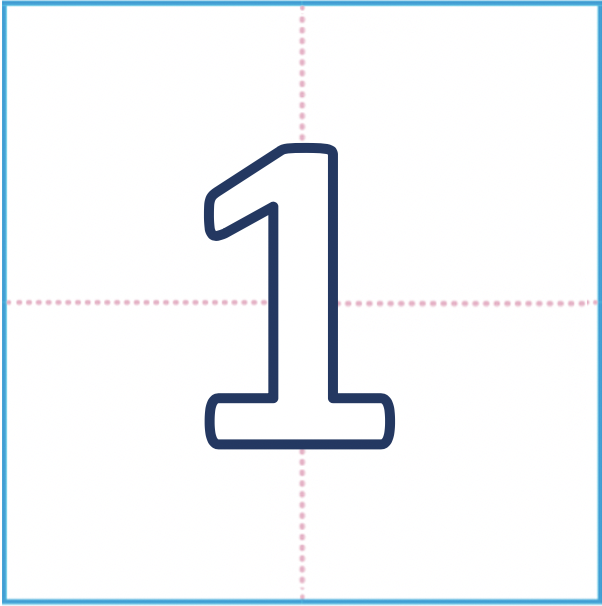
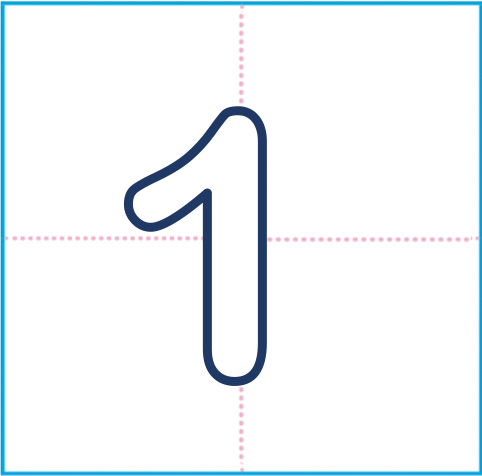
Add drawing in 1, 2 and 3

Changed region(s): [[0.0, 0.0, 1.0, 1.0], [0.249, 0.1765, 0.6846, 0.9118]]

diff --git a/CSS/game/drawNumbar.css b/CSS/game/drawNumbar.css
@@ -1,4 +1,332 @@
 
+/* 1 */
+.finger1 {
+    visibility: visible;
+    width: 50px;
+    height: 100px;
+    transform: rotate(300deg);
+    position: absolute;
+    top: -65px;
+    left: -200px;
+    z-index: 30;
+    filter: drop-shadow(2px 2px 2px rgba(0, 0, 0, 0.3));
+}
+.moveFinger11 {
+    width: 50px;
+    height: 100px;
+    transform: scale(4);
+    transition: all 1s ease-out;
+    transform: rotate(300deg);
+    position: absolute;
+    top: -85px;
+    left: -165px;
+    z-index: 10;
+    animation-delay: 1s;
+}
+
+.moveFinger12 {
+    width: 50px;
+    height: 100px;
+    transform: scale(4);
+    transition: all 1.5s ease-out;
+    transform: rotate(300deg);
+    position: absolute;
+    top: -105px;
+    left: -145px;
+    z-index: 10;
+    animation-delay: 1s;
+}
+
+.moveFinger13 {
+    width: 50px;
+    height: 100px;
+    transform: scale(4);
+    transition: all 1.5s ease-out;
+    transform: rotate(300deg);
+    position: absolute;
+    top: 35px;
+    left: -145px;
+    z-index: 10;
+    animation-delay: 1s;
+}
+.moveFinger14 {
+    width: 50px;
+    height: 100px;
+    transform: scale(4);
+    transition: all 1.5s ease-out;
+    transform: rotate(300deg);
+    position: absolute;
+    top: -50px;
+    left: -120px;
+    z-index: 10;
+    animation-delay: 1s;
+}
+.moveFinger15 {
+    width: 50px;
+    height: 100px;
+    transform: scale(4);
+    transition: all 1.5s ease-out;
+    transform: rotate(300deg);
+    position: absolute;
+    top: -20px;
+    left: -145px;
+    z-index: 10;
+}
+
+.moveFinger16 {
+    width: 50px;
+    height: 100px;
+    transform: scale(4);
+    transition: all 1.5s ease-out;
+    transform: rotate(300deg);
+    position: absolute;
+    top: 20px;
+    left: -170px;
+    z-index: 10;
+}
+
+.moveFinger17 {
+    width: 50px;
+    height: 100px;
+    transform: scale(4);
+    transition: all 1.5s ease-out;
+    transform: rotate(300deg);
+    position: absolute;
+    top: 20px;
+    left: -105px;
+    z-index: 10;
+}
+/* 2 */
+.finger2 {
+    visibility: visible;
+    width: 50px;
+    height: 100px;
+    transform: rotate(300deg);
+    position: absolute;
+    top: -95px;
+    left: -175px;
+    z-index: 30;
+    filter: drop-shadow(2px 2px 2px rgba(0, 0, 0, 0.3));
+}
+.moveFinger21 {
+    width: 50px;
+    height: 100px;
+    transform: scale(4);
+    transition: all 1s ease-out;
+    transform: rotate(300deg);
+    position: absolute;
+    top: -105px;
+    left: -145px;
+    z-index: 10;
+    animation-delay: 1s;
+}
+
+.moveFinger22 {
+    width: 50px;
+    height: 100px;
+    transform: scale(4);
+    transition: all 1.5s ease-out;
+    transform: rotate(300deg);
+    position: absolute;
+    top: -95px;
+    left: -120px;
+    z-index: 10;
+    animation-delay: 1s;
+}
+
+.moveFinger23 {
+    width: 50px;
+    height: 100px;
+    transform: scale(4);
+    transition: all 1.5s ease-out;
+    transform: rotate(300deg);
+    position: absolute;
+    top: -70px;
+    left: -115px;
+    z-index: 10;
+    animation-delay: 1s;
+}
+.moveFinger24 {
+    width: 50px;
+    height: 100px;
+    transform: scale(4);
+    transition: all 1.5s ease-out;
+    transform: rotate(300deg);
+    position: absolute;
+    top: -50px;
+    left: -120px;
+    z-index: 10;
+    animation-delay: 1s;
+}
+.moveFinger25 {
+    width: 50px;
+    height: 100px;
+    transform: scale(4);
+    transition: all 1.5s ease-out;
+    transform: rotate(300deg);
+    position: absolute;
+    top: -20px;
+    left: -145px;
+    z-index: 10;
+}
+
+.moveFinger26 {
+    width: 50px;
+    height: 100px;
+    transform: scale(4);
+    transition: all 1.5s ease-out;
+    transform: rotate(300deg);
+    position: absolute;
+    top: 20px;
+    left: -170px;
+    z-index: 10;
+}
+
+.moveFinger27 {
+    width: 50px;
+    height: 100px;
+    transform: scale(4);
+    transition: all 1.5s ease-out;
+    transform: rotate(300deg);
+    position: absolute;
+    top: 20px;
+    left: -105px;
+    z-index: 10;
+}
+
+
+/* 3 */
+.finger3 {
+    visibility: visible;
+    width: 50px;
+    height: 100px;
+    transform: rotate(300deg);
+    position: absolute;
+    top: -95px;
+    left: -175px;
+    z-index: 30;
+    filter: drop-shadow(2px 2px 2px rgba(0, 0, 0, 0.3));
+}
+.moveFinger31 {
+    width: 50px;
+    height: 100px;
+    transform: scale(4);
+    transition: all 1s ease-out;
+    transform: rotate(300deg);
+    position: absolute;
+    top: -105px;
+    left: -145px;
+    z-index: 10;
+    animation-delay: 1s;
+}
+
+.moveFinger32 {
+    width: 50px;
+    height: 100px;
+    transform: scale(4);
+    transition: all 1.5s ease-out;
+    transform: rotate(300deg);
+    position: absolute;
+    top: -95px;
+    left: -120px;
+    z-index: 10;
+    animation-delay: 1s;
+}
+
+.moveFinger33 {
+    width: 50px;
+    height: 100px;
+    transform: scale(4);
+    transition: all 1.5s ease-out;
+    transform: rotate(300deg);
+    position: absolute;
+    top: -70px;
+    left: -115px;
+    z-index: 10;
+    animation-delay: 1s;
+}
+.moveFinger34 {
+    width: 50px;
+    height: 100px;
+    transform: scale(4);
+    transition: all 1.5s ease-out;
+    transform: rotate(300deg);
+    position: absolute;
+    top: -50px;
+    left: -135px;
+    z-index: 10;
+    animation-delay: 1s;
+}
+.moveFinger35 {
+    width: 50px;
+    height: 100px;
+    transform: scale(4);
+    transition: all 1.5s ease-out;
+    transform: rotate(300deg);
+    position: absolute;
+    top: -40px;
+    left: -160px;
+    z-index: 10;
+}
+
+.moveFinger36 {
+    width: 50px;
+    height: 100px;
+    transform: scale(4);
+    transition: all 1.5s ease-out;
+    transform: rotate(300deg);
+    position: absolute;
+    top: -35px;
+    left: -130px;
+    z-index: 10;
+}
+
+.moveFinger37 {
+    width: 50px;
+    height: 100px;
+    transform: scale(4);
+    transition: all 1.5s ease-out;
+    transform: rotate(300deg);
+    position: absolute;
+    top: -5px;
+    left: -110px;
+    z-index: 10;
+}
+
+.moveFinger38 {
+    width: 50px;
+    height: 100px;
+    transform: scale(4);
+    transition: all 1.5s ease-out;
+    transform: rotate(300deg);
+    position: absolute;
+    top: 15px;
+    left: -120px;
+    z-index: 10;
+}
+
+.moveFinger39 {
+    width: 50px;
+    height: 100px;
+    transform: scale(4);
+    transition: all 1.5s ease-out;
+    transform: rotate(300deg);
+    position: absolute;
+    top: 20px;
+    left: -140px;
+    z-index: 10;
+}
+.moveFinger310 {
+    width: 50px;
+    height: 100px;
+    transform: scale(4);
+    transition: all 1.5s ease-out;
+    transform: rotate(300deg);
+    position: absolute;
+    top: 17px;
+    left: -180px;
+    z-index: 10;
+}
 /* 4 */
 .finger4 {
     visibility: visible;

diff --git a/model/game/drawZhuyin.js b/model/game/drawZhuyin.js
@@ -153,6 +153,9 @@ function moveFinger(){
         finger.style.visibility="visible";
     }
     let drawTime = {b:[1500,2500,3600,4900,6100,7500,9000,10000,11000,12500,13500,14500,15500,16500],
+        1:[1500,2500,3500,4500,5500,6500,8000,9000,10000,11000,12000,12000,14000,14500,15500],
+        2:[1500,2500,3500,4500,5500,6500,8000,9000,10000,11000,12000,12000,14000,14500,15500],
+        3:[1500,2500,3500,4500,5500,6500,8000,9000,10000,11000,12000,12000,14000,14500,15500],
         4:[1500,2500,3600,4900,6100,7500,9000,10000,11000,12500,13500,14500,15500,16500],
         5:[1500,2500,3600,4900,6100,7500,9000,10000,11000,12500,13500,14500,15500,16500],
         6:[1500,2500,3600,4900,6100,7500,9000,10000,11000,12500,13500,14500,15500,16500],
@@ -163,7 +166,7 @@ function moveFinger(){
         f1:[1500,2500,3600,4900,6100,7500,9000,10000,11000,12500,13500,14500,15500,16500],}
    
     let strokeNumber = {b:8,
-        4:8,5:8,6:8,7:6,8:13,9:12,0:9,
+        1:3,2:7,3:10,4:8,5:8,6:8,7:6,8:13,9:12,0:9,
         f1:8}
         setTimeout("document.querySelector('.finger"+id+"').className = 'moveFinger"+id+"1';", drawTime[id][0]);
         console.log(`strokeNumber[id]=${strokeNumber[id]}`);
